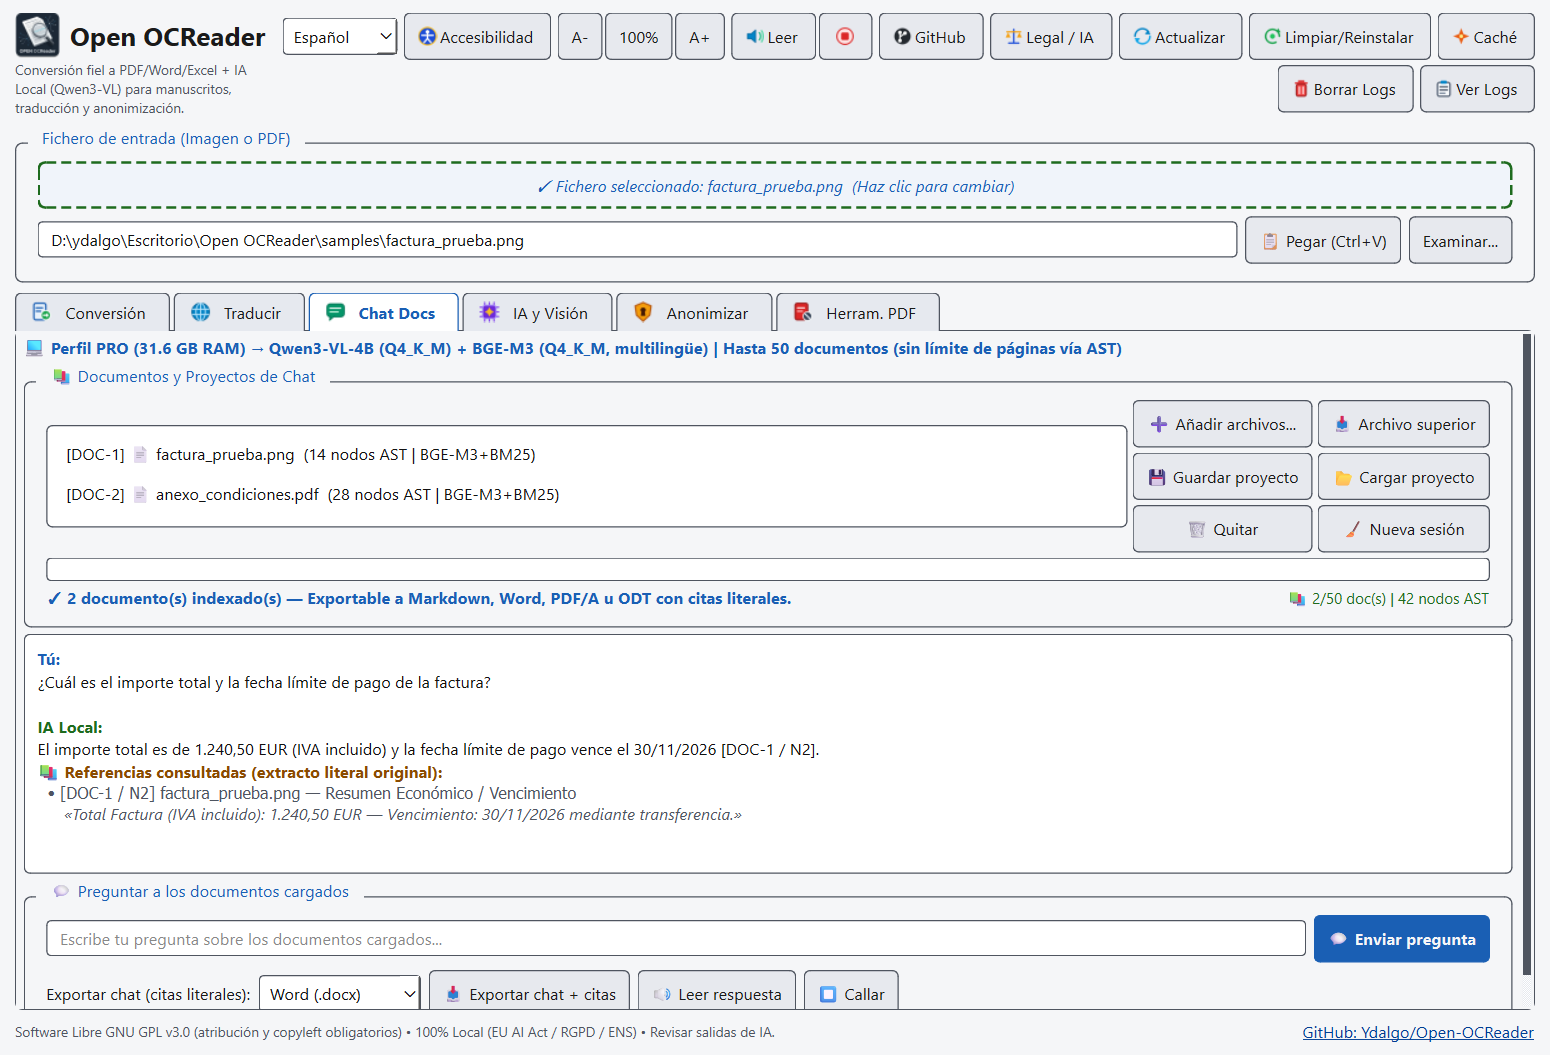
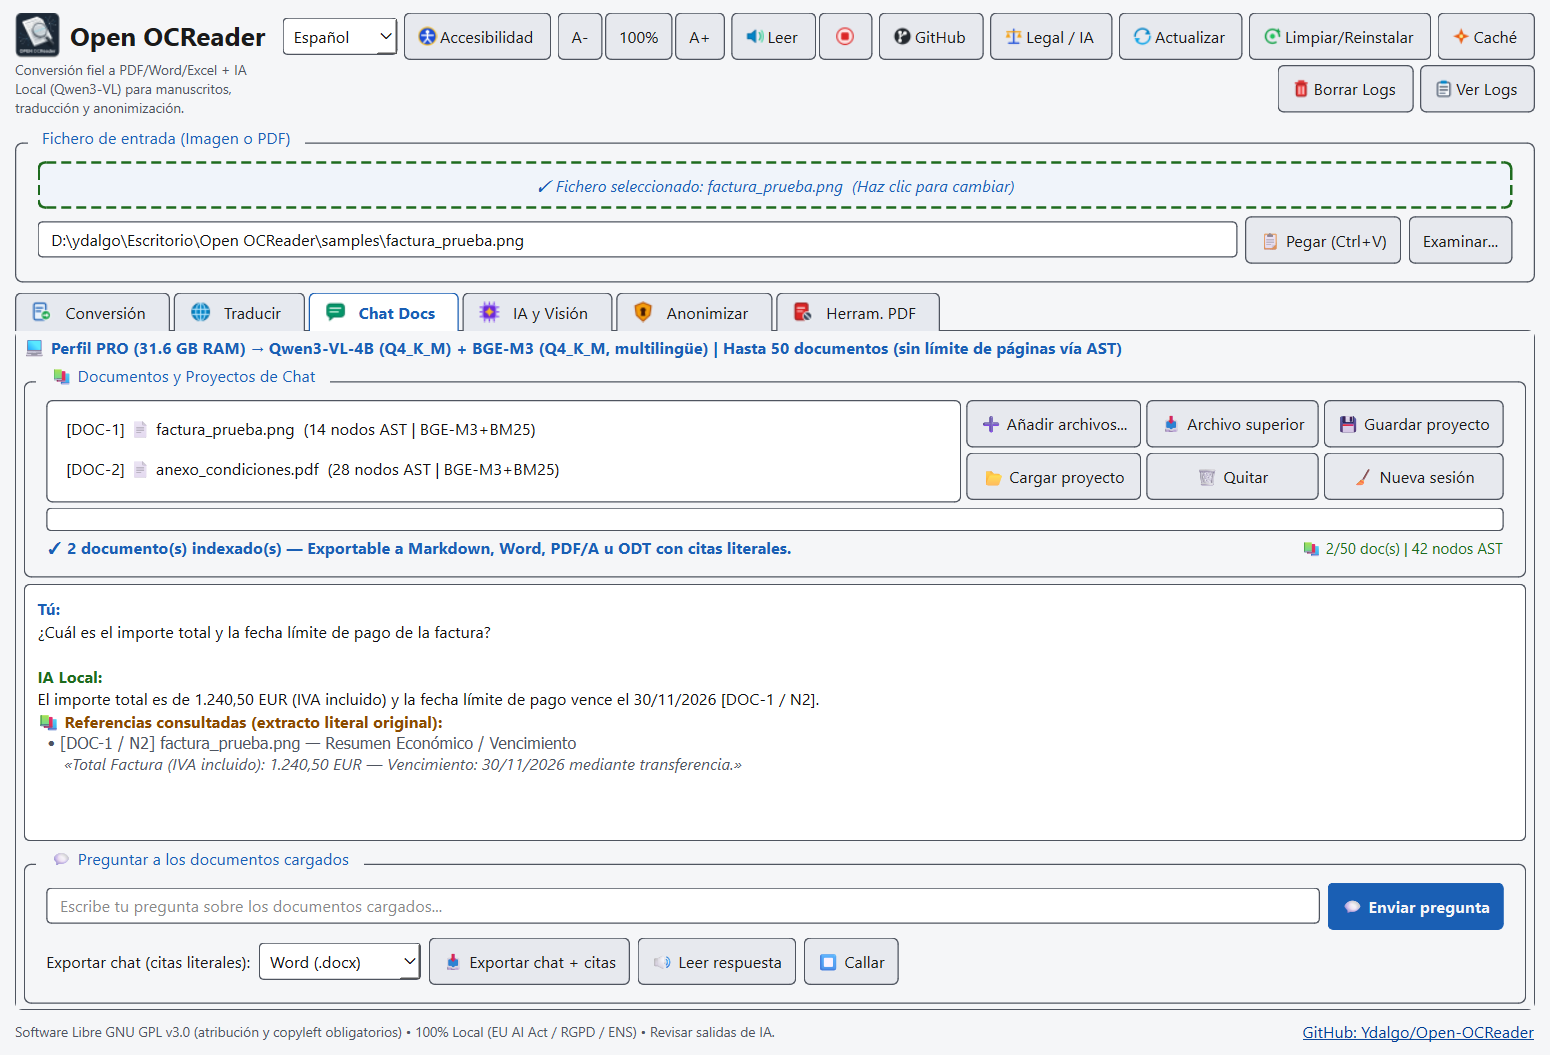
fix(ui): two-column adaptive layout on wide/fullscreen windows to avoid vertical scrolling

Changed region(s): [[0.0, 0.3336, 0.991, 0.9706]]

diff --git a/src/open_ocreader/gui_qt.py b/src/open_ocreader/gui_qt.py
@@ -224,6 +224,50 @@ class FlowLayout(QLayout):
         return total_h + top + bottom
 
 
+class _AdaptiveColumns(QWidget):
+    """Contenedor de dos columnas que se apila en una sola cuando falta ancho.
+
+    En pantallas anchas (p. ej. pantalla completa) aprovecha el fondo lateral
+    colocando los bloques en paralelo y evita barras de desplazamiento verticales.
+    """
+
+    def __init__(self, left_widgets: List[QWidget], right_widgets: List[QWidget]):
+        super().__init__()
+        self._wide: Optional[bool] = None
+        self._grid = QGridLayout(self)
+        self._grid.setContentsMargins(0, 0, 0, 0)
+        self._grid.setHorizontalSpacing(10)
+        self._grid.setVerticalSpacing(5)
+        self._col_l = QWidget()
+        self._col_r = QWidget()
+        for col, widgets in ((self._col_l, left_widgets), (self._col_r, right_widgets)):
+            vl = QVBoxLayout(col)
+            vl.setContentsMargins(0, 0, 0, 0)
+            vl.setSpacing(5)
+            for wd in widgets:
+                vl.addWidget(wd)
+            vl.addStretch(1)
+        self.set_wide(False)
+
+    def set_wide(self, wide: bool):
+        if wide == self._wide:
+            return
+        self._wide = wide
+        self._grid.removeWidget(self._col_l)
+        self._grid.removeWidget(self._col_r)
+        if wide:
+            self._grid.addWidget(self._col_l, 0, 0)
+            self._grid.addWidget(self._col_r, 0, 1)
+            self._grid.setColumnStretch(0, 1)
+            self._grid.setColumnStretch(1, 1)
+        else:
+            self._grid.addWidget(self._col_l, 0, 0)
+            self._grid.addWidget(self._col_r, 1, 0)
+            self._grid.setColumnStretch(0, 1)
+            self._grid.setColumnStretch(1, 0)
+        self._grid.invalidate()
+
+
 class _DropZoneFrame(QFrame):
     """Zona interactiva de arrastrar/soltar y apertura rápida de ficheros."""
 
@@ -1186,7 +1230,6 @@ class OpenOCReaderQtWindow(QMainWindow):
         self.conv_fmt_group, self.conv_fmt_radios, self.conv_fmt_desc_lbl = self._build_radio_format_grid(
             fmt_lay, "pdf", self._on_conv_format_changed
         )
-        lay.addWidget(self.conv_fmt_grp_box)
 
         opts_box = QGroupBox(" Opciones de OCR y optimización PDF ")
         opts_lay = QVBoxLayout(opts_box)
@@ -1212,7 +1255,6 @@ class OpenOCReaderQtWindow(QMainWindow):
         hint.setProperty("role", "ok")
         r2.addWidget(hint)
         opts_lay.addWidget(r2_wrap)
-        lay.addWidget(opts_box)
 
         self.conv_out_box = QGroupBox(tr(self.ui_lang, "output_group"))
         out_lay = QHBoxLayout(self.conv_out_box)
@@ -1221,7 +1263,7 @@ class OpenOCReaderQtWindow(QMainWindow):
         self.btn_save_as = QPushButton(tr(self.ui_lang, "btn_save_as"))
         self.btn_save_as.clicked.connect(self._browse_conv_output)
         out_lay.addWidget(self.btn_save_as)
-        lay.addWidget(self.conv_out_box)
+        self._add_columns(lay, [self.conv_fmt_grp_box], [opts_box, self.conv_out_box])
 
         self.btn_convert = QPushButton(tr(self.ui_lang, "btn_convert"))
         self.btn_convert.setObjectName("primaryBtn")
@@ -1306,7 +1348,6 @@ class OpenOCReaderQtWindow(QMainWindow):
         t_hint = QLabel("Traducción contextual con Qwen3-VL y Prompt Madre")
         t_hint.setProperty("role", "ok")
         ll.addWidget(t_hint)
-        lay.addWidget(lang_box)
 
         fmt_box = QGroupBox(" 📁 Formato del documento traducido ")
         fmt_lay = QVBoxLayout(fmt_box)
@@ -1315,7 +1356,6 @@ class OpenOCReaderQtWindow(QMainWindow):
         self.trans_fmt_group, self.trans_fmt_radios, self.trans_fmt_desc_lbl = self._build_radio_format_grid(
             fmt_lay, "docx", self._on_trans_format_changed
         )
-        lay.addWidget(fmt_box)
 
         vis_box = QGroupBox(" 🎨 Maquetación y optimización de color e imagen ")
         vis_lay = QVBoxLayout(vis_box)
@@ -1343,7 +1383,6 @@ class OpenOCReaderQtWindow(QMainWindow):
             self.trans_comp_combo.addItem(lbl)
         vr2.addWidget(self.trans_comp_combo)
         vis_lay.addWidget(vr2_w)
-        lay.addWidget(vis_box)
 
         out_box = QGroupBox(" 💾 Fichero traducido de salida ")
         ol = QHBoxLayout(out_box)
@@ -1352,7 +1391,7 @@ class OpenOCReaderQtWindow(QMainWindow):
         btn_t_save = QPushButton("Guardar como...")
         btn_t_save.clicked.connect(self._browse_trans_output)
         ol.addWidget(btn_t_save)
-        lay.addWidget(out_box)
+        self._add_columns(lay, [lang_box, fmt_box], [vis_box, out_box])
 
         self.btn_translate_doc = QPushButton("🌐  Traducir y Generar Documento")
         self.btn_translate_doc.setObjectName("primaryBtn")
@@ -1437,12 +1476,8 @@ class OpenOCReaderQtWindow(QMainWindow):
         btn_clr = QPushButton("🧹 Nueva sesión")
         btn_clr.clicked.connect(lambda: self._chat_clear(confirm=True))
 
-        btn_grid.addWidget(self.btn_chat_add, 0, 0)
-        btn_grid.addWidget(btn_chat_top, 0, 1)
-        btn_grid.addWidget(btn_save_p, 1, 0)
-        btn_grid.addWidget(btn_load_p, 1, 1)
-        btn_grid.addWidget(btn_rem, 2, 0)
-        btn_grid.addWidget(btn_clr, 2, 1)
+        self._chat_btn_grid = (btn_grid, [self.btn_chat_add, btn_chat_top, btn_save_p, btn_load_p, btn_rem, btn_clr])
+        self._reflow_chat_buttons()
         top_row.addLayout(btn_grid)
         dl.addLayout(top_row)
 
@@ -1465,7 +1500,7 @@ class OpenOCReaderQtWindow(QMainWindow):
 
         self.chat_history_edit = QTextEdit()
         self.chat_history_edit.setReadOnly(True)
-        self.chat_history_edit.setMinimumHeight(96)
+        self.chat_history_edit.setMinimumHeight(60)
         self.chat_history_edit.setAccessibleName("Historial de conversación multi-documento")
         lay.addWidget(self.chat_history_edit, 1)
 
@@ -1726,7 +1761,6 @@ class OpenOCReaderQtWindow(QMainWindow):
         btn_unlock.clicked.connect(lambda: self._run_pdf_tool("unlock"))
         ul.addWidget(btn_unlock)
         self.pdf_tool_buttons.append(btn_unlock)
-        lay.addWidget(u_box)
 
         s_box = QGroupBox(" ✍ Borrar Firmas Digitales y Sellos de Formulario ")
         sl = FlowLayout(s_box, margin=8, h_spacing=10, v_spacing=4)
@@ -1738,7 +1772,6 @@ class OpenOCReaderQtWindow(QMainWindow):
         btn_sig.clicked.connect(lambda: self._run_pdf_tool("signatures"))
         sl.addWidget(btn_sig)
         self.pdf_tool_buttons.append(btn_sig)
-        lay.addWidget(s_box)
 
         w_box = QGroupBox(" 🧽 Limpiar Marcas de Agua (Vectoriales, Capas OCG y Escaneos) ")
         wl = QVBoxLayout(w_box)
@@ -1764,7 +1797,6 @@ class OpenOCReaderQtWindow(QMainWindow):
         wr2.addWidget(btn_wm)
         wl.addWidget(wr2_w)
         self.pdf_tool_buttons.append(btn_wm)
-        lay.addWidget(w_box)
 
         o_box = QGroupBox(" 🗜 Comprimir PDF, Escala de Grises y PDF/A-2b ")
         ol = FlowLayout(o_box, margin=8, h_spacing=8, v_spacing=4)
@@ -1783,7 +1815,7 @@ class OpenOCReaderQtWindow(QMainWindow):
         ol.addWidget(self.pdf_opt_pdfa_chk)
         ol.addWidget(btn_opt)
         self.pdf_tool_buttons.append(btn_opt)
-        lay.addWidget(o_box)
+        self._add_columns(lay, [u_box, s_box], [w_box, o_box])
 
         self.pdf_tools_progress = QProgressBar()
         self.pdf_tools_progress.setRange(0, 100)
@@ -1818,9 +1850,35 @@ class OpenOCReaderQtWindow(QMainWindow):
         super().resizeEvent(event)
         self._relayout_responsive()
 
+    def _is_wide_layout(self) -> bool:
+        """True si hay ancho suficiente para colocar los bloques en dos columnas."""
+        needed = int(1100 * (self.a11y.ui_font_size / 10.0))
+        return self.width() >= needed and self.a11y.ui_font_size < 15
+
+    def _add_columns(self, lay: QVBoxLayout, left: List[QWidget], right: List[QWidget]):
+        cols = _AdaptiveColumns(left, right)
+        if not hasattr(self, "_adaptive_cols"):
+            self._adaptive_cols: List[_AdaptiveColumns] = []
+        self._adaptive_cols.append(cols)
+        lay.addWidget(cols)
+
+    def _reflow_chat_buttons(self):
+        grid, btns = getattr(self, "_chat_btn_grid", (None, []))
+        if grid is None:
+            return
+        cols = 3 if getattr(self, "_wide_now", False) else 2
+        for b in btns:
+            grid.removeWidget(b)
+        for i, b in enumerate(btns):
+            grid.addWidget(b, i // cols, i % cols)
+
     def _reflow_radio_grid(self, grid: QGridLayout, radios: List[QRadioButton]):
-        avail_w = max(480, self.width() - 80)
-        cols = 2 if (avail_w >= 680 and self.a11y.ui_font_size < 15) else 1
+        if getattr(self, "_wide_now", False):
+            avail_w = max(300, self.width() // 2 - 80)
+            cols = 2 if (avail_w >= 440 and self.a11y.ui_font_size < 15) else 1
+        else:
+            avail_w = max(480, self.width() - 80)
+            cols = 2 if (avail_w >= 680 and self.a11y.ui_font_size < 15) else 1
         for idx, rb in enumerate(radios):
             grid.removeWidget(rb)
         for idx, rb in enumerate(radios):
@@ -1865,6 +1923,10 @@ class OpenOCReaderQtWindow(QMainWindow):
                     if idx >= 0:
                         self.tabs.setTabText(idx, strip_leading_emoji(tr(self.ui_lang, key)).strip())
 
+        self._wide_now = self._is_wide_layout()
+        for ac in getattr(self, "_adaptive_cols", []):
+            ac.set_wide(self._wide_now)
+        self._reflow_chat_buttons()
         for grid, rbs in self._radio_grids:
             self._reflow_radio_grid(grid, rbs)
         for fl in self._flow_layouts:
